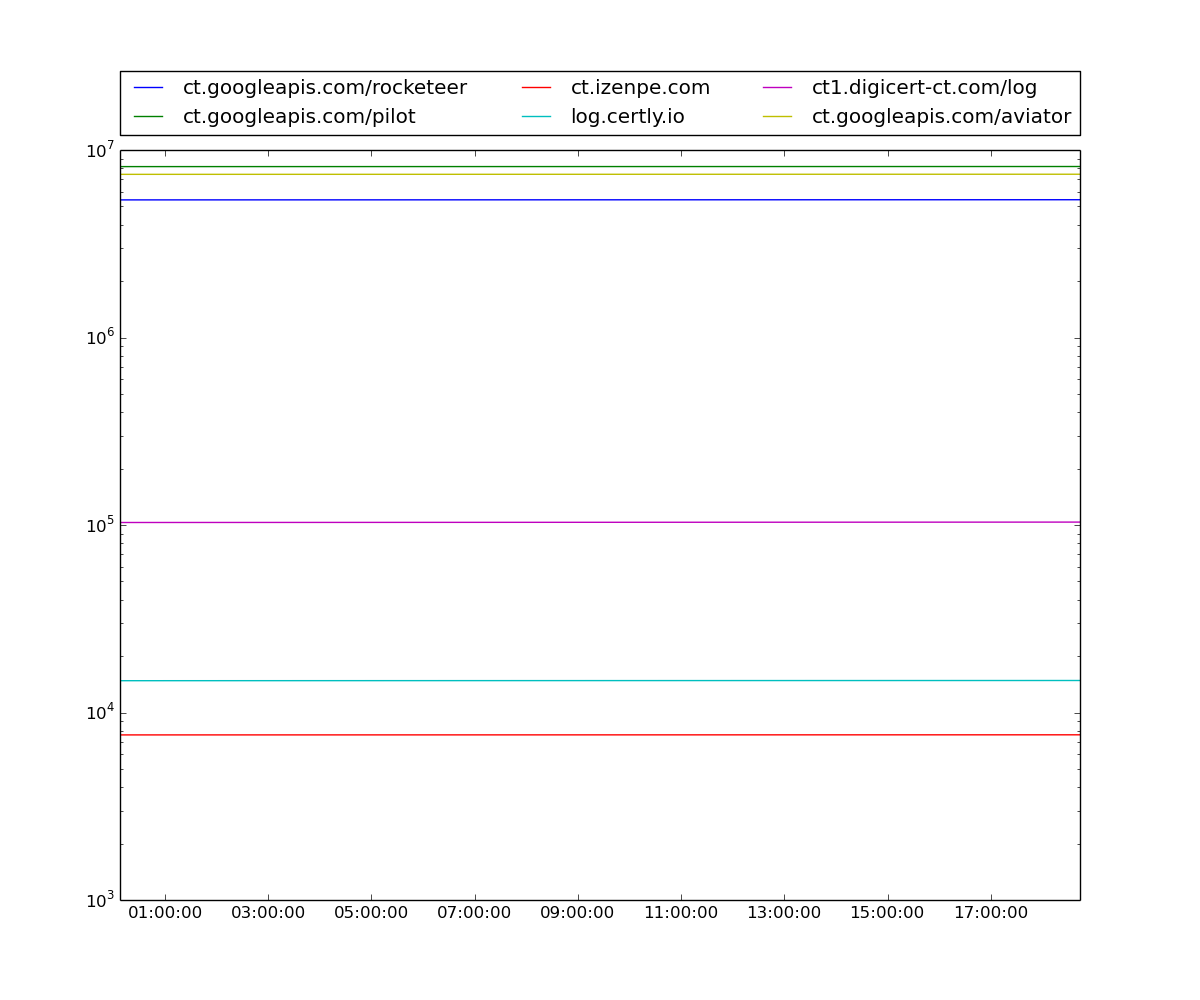
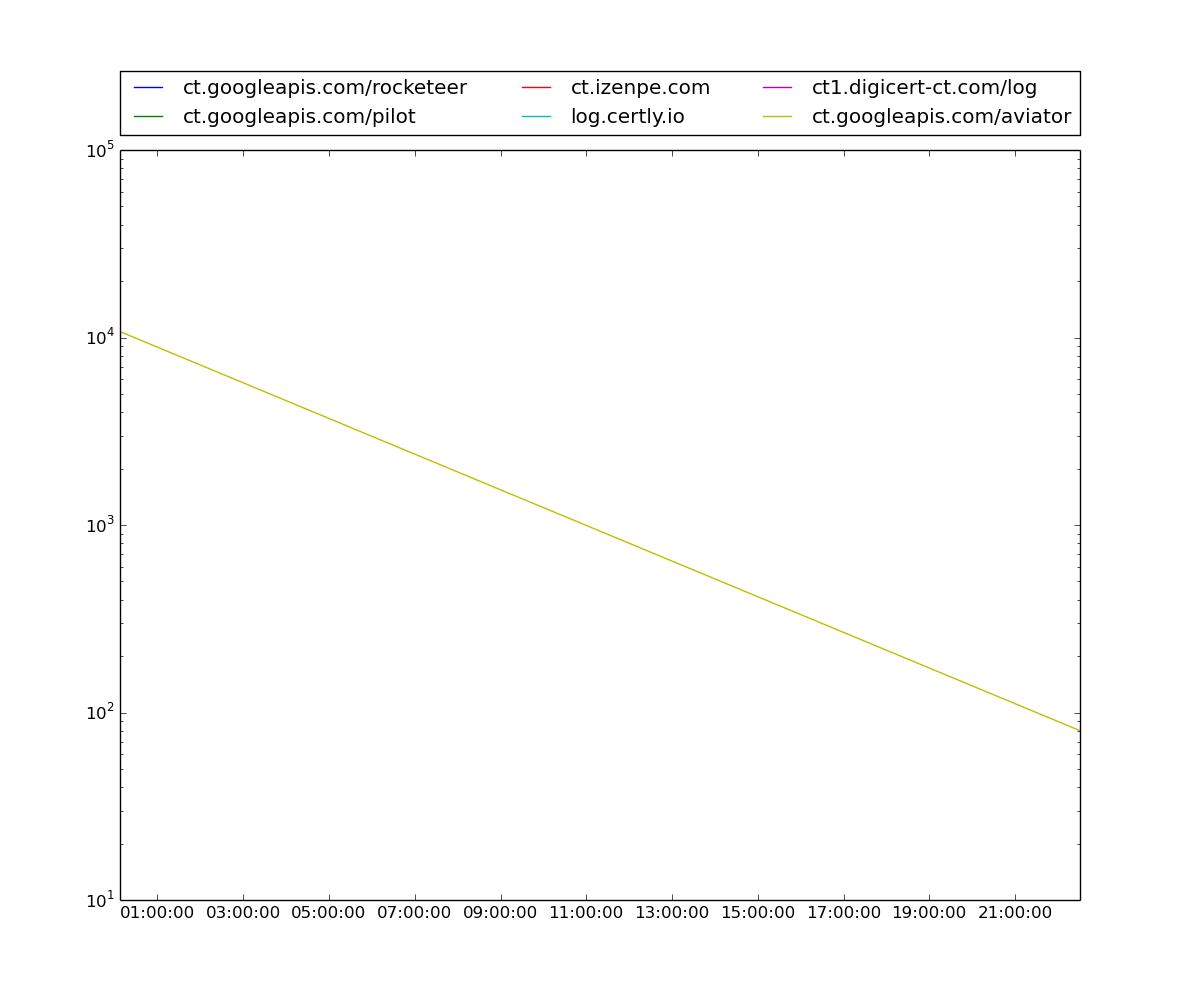
Track growth not size

diff --git a/grab_sizes.py b/grab_sizes.py
@@ -9,30 +9,36 @@ known_logs_url = "http://www.certificate-transparency.org/known-logs/all_logs_li
 r = urllib.urlopen(known_logs_url)
 logs = json.loads(r.read())
 
+# {
+# 	"logs": {},
+# 	"last_sizes": {}
+# }
 log_sizes = {}
 try:
 	size_f = open("log_sizes.json").read()
 	log_sizes = json.loads(size_f)
 except IOError:
-	pass
+	log_sizes = {"logs": {}, "last_sizes":{}}
 
 now = time.time()
 for entry in logs["logs"]:
 	r = urllib.urlopen("https://"+entry["url"]+"/ct/v1/get-sth")
 	entry_info = json.loads(r.read())
 	print(entry["url"] + " " + str(entry_info["tree_size"]))
-	if not log_sizes.get(entry["url"], False):
-		log_sizes[entry["url"]] = []
-	log_sizes[entry["url"]].append([now, entry_info["tree_size"]])
+	if not log_sizes["last_sizes"].get(entry["url"], False):
+		log_sizes["last_sizes"][entry["url"]] = entry_info["tree_size"]
+		log_sizes["logs"][entry["url"]] = []
+	else:
+		log_sizes["logs"][entry["url"]].append([now, (entry_info["tree_size"] - log_sizes["last_sizes"][entry["url"]])])
 
 print(log_sizes)
 
 fig = plt.figure(figsize=[12,10])
 ax = fig.add_axes([0.1, 0.1, 0.8, 0.75])
 
-for k in log_sizes:
-	x = [datetime.fromtimestamp(p[0]) for p in log_sizes[k]]
-	y = [p[1] for p in log_sizes[k]]
+for k in log_sizes["logs"]:
+	x = [datetime.fromtimestamp(p[0]) for p in log_sizes["logs"][k]]
+	y = [p[1] for p in log_sizes["logs"][k]]
 	ax.plot_date(x, y, label=k, ls='solid', fmt='')
 
 with open("log_sizes.json", "w") as f:
@@ -40,6 +46,4 @@ with open("log_sizes.json", "w") as f:
 
 ax.legend(bbox_to_anchor=(0., 1.02, 1., .102), loc=3,
            ncol=3, mode="expand", borderaxespad=0.)
-plt.yscale('log')
 fig.savefig("chart.png")
-# plt.show()
